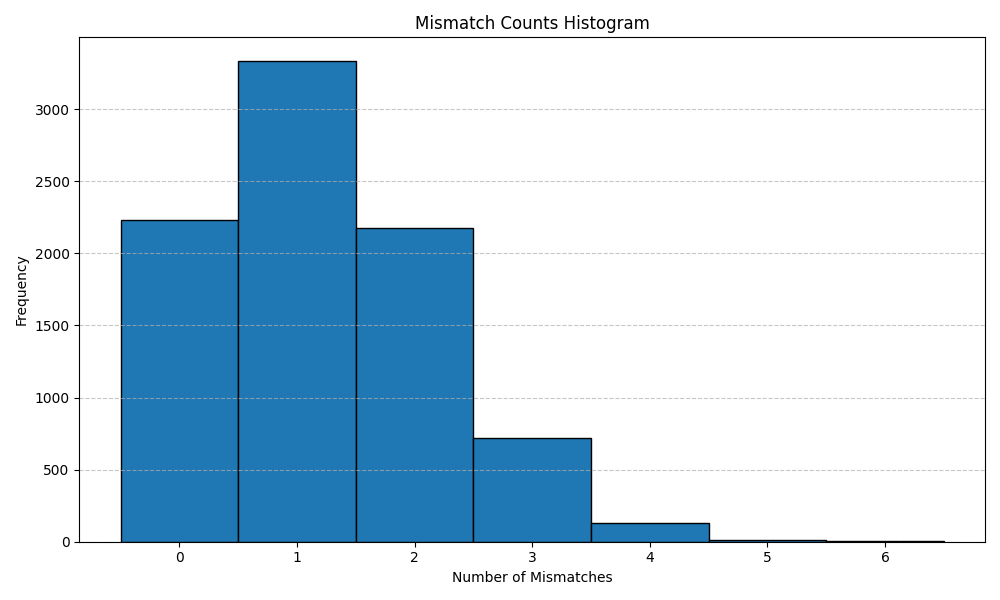
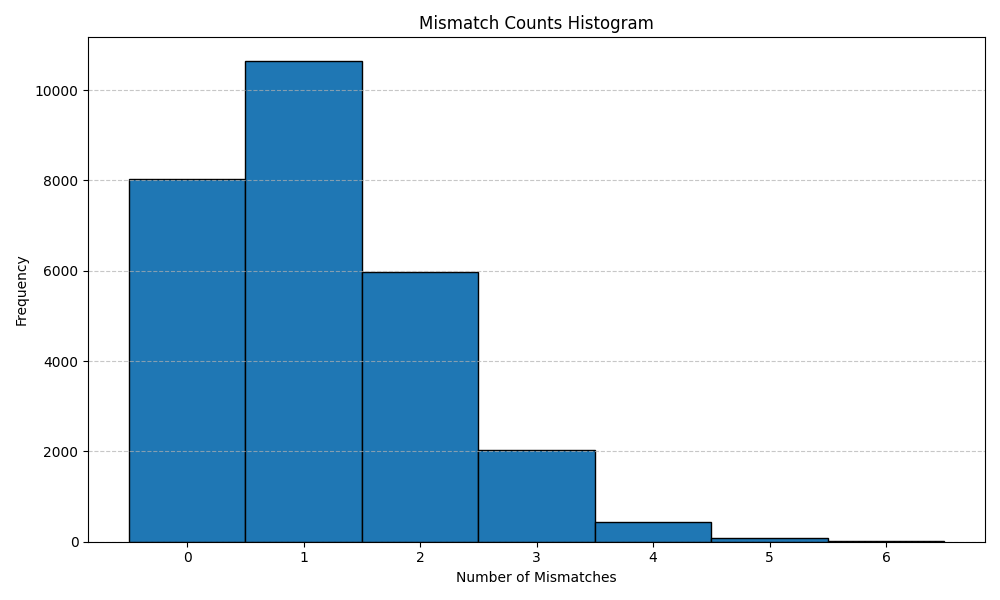
Update

diff --git a/simulations/avg_mismatch/main.py b/simulations/avg_mismatch/main.py
@@ -154,13 +154,13 @@ minimizer_table = create_index_table(sequence, k, w)
 rymer_table = create_index_table(rymer_transform(sequence), k, w)
 
 # Generate circular reads and introduce mutations
-read_length = 50
-mutation_rate = 0.5
+read_length = 75
+mutation_rate = 0.2
 # Fragment the genome
-mean_fragment_size = 5000  # for example
-std_dev = 500  # for example
+mean_fragment_size = 2000  # for example
+std_dev = 100  # for example
 num_fragments = 200  # for example
-num_reads_per_fragment = 1
+num_reads_per_fragment = 2
 
 fragments = fragment_genome(sequence, mean_fragment_size, std_dev, num_fragments)
 
